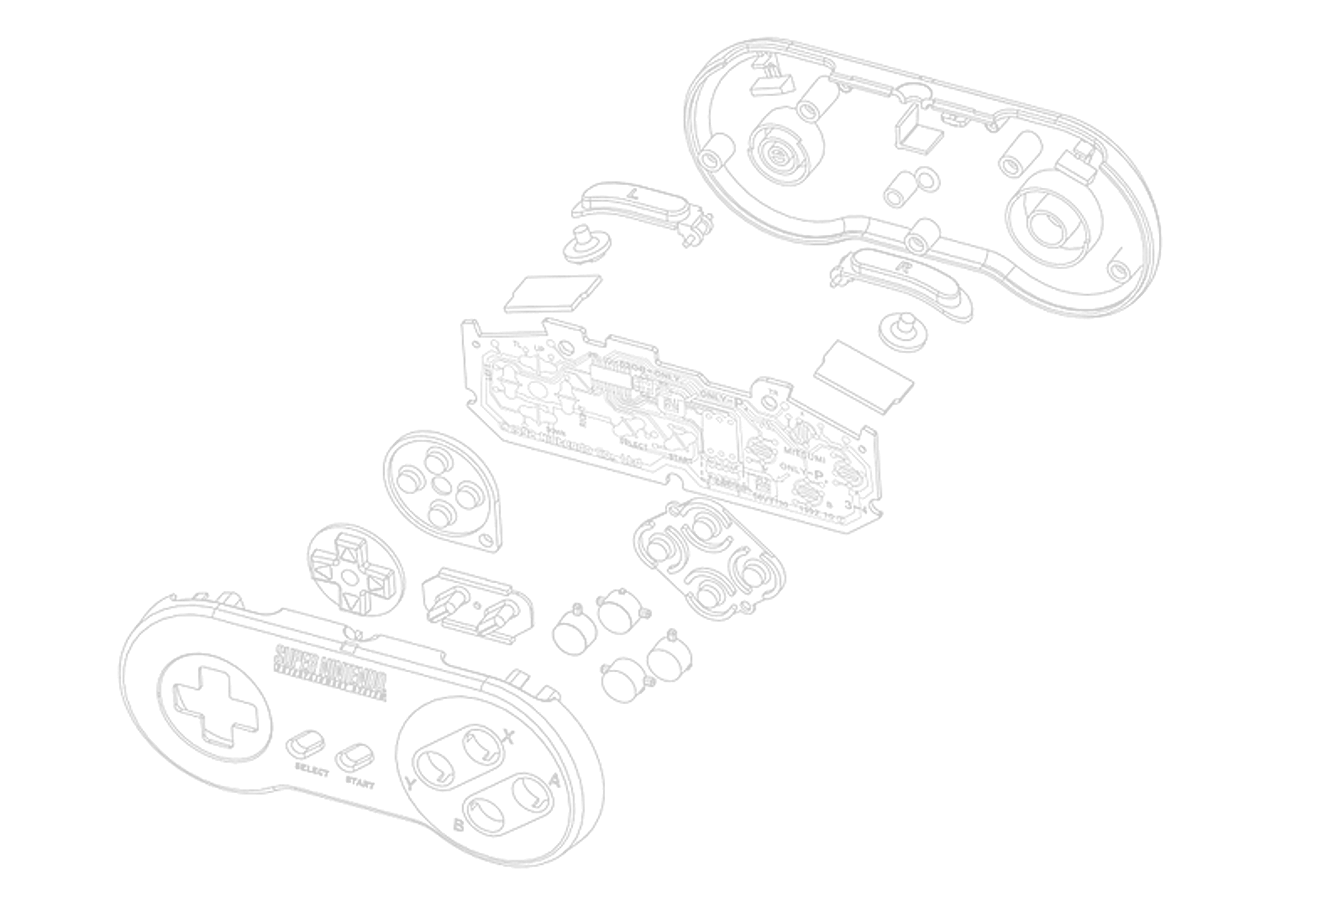
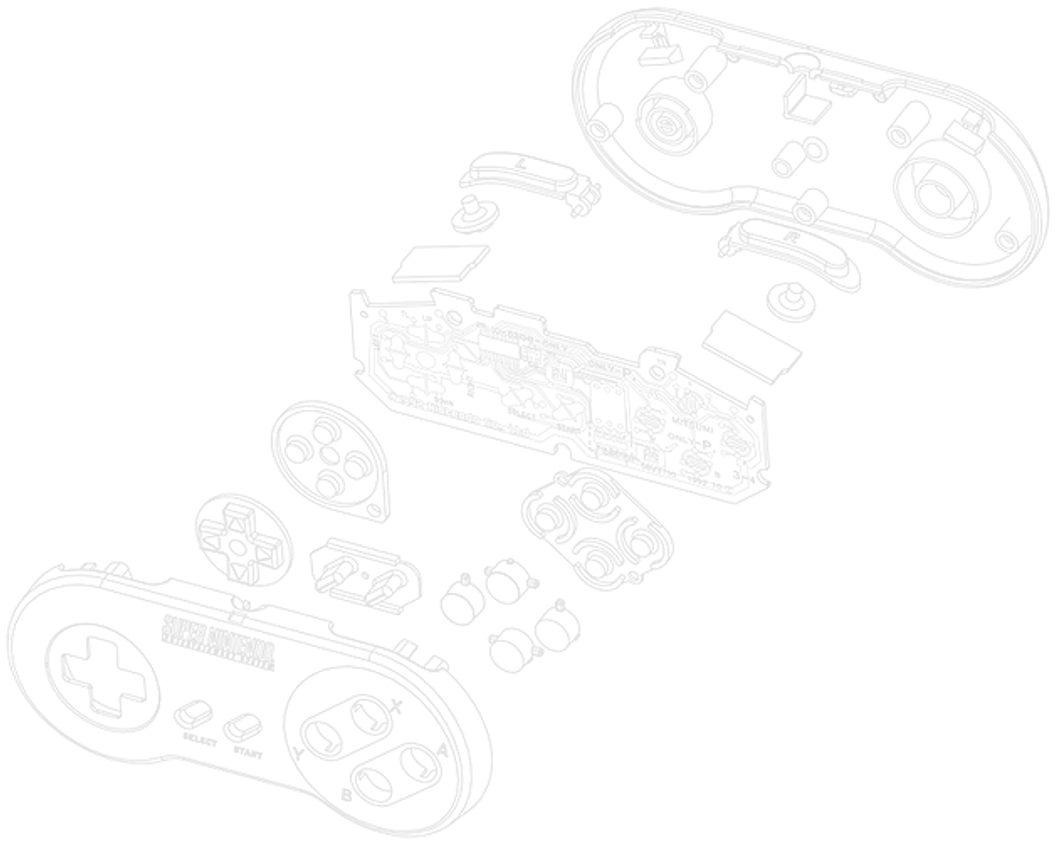
Adjust bg opacity and size for controller info

diff --git a/styles/modules/section-controller.sass b/styles/modules/section-controller.sass
@@ -63,6 +63,8 @@
   margin-right: 24px
 
 .controller__about
+  margin-bottom: 64px
+  margin-top: 16px
   background:
     image: url("../img/controller/roll-bg-m01.png")
     repeat: repeat-X
